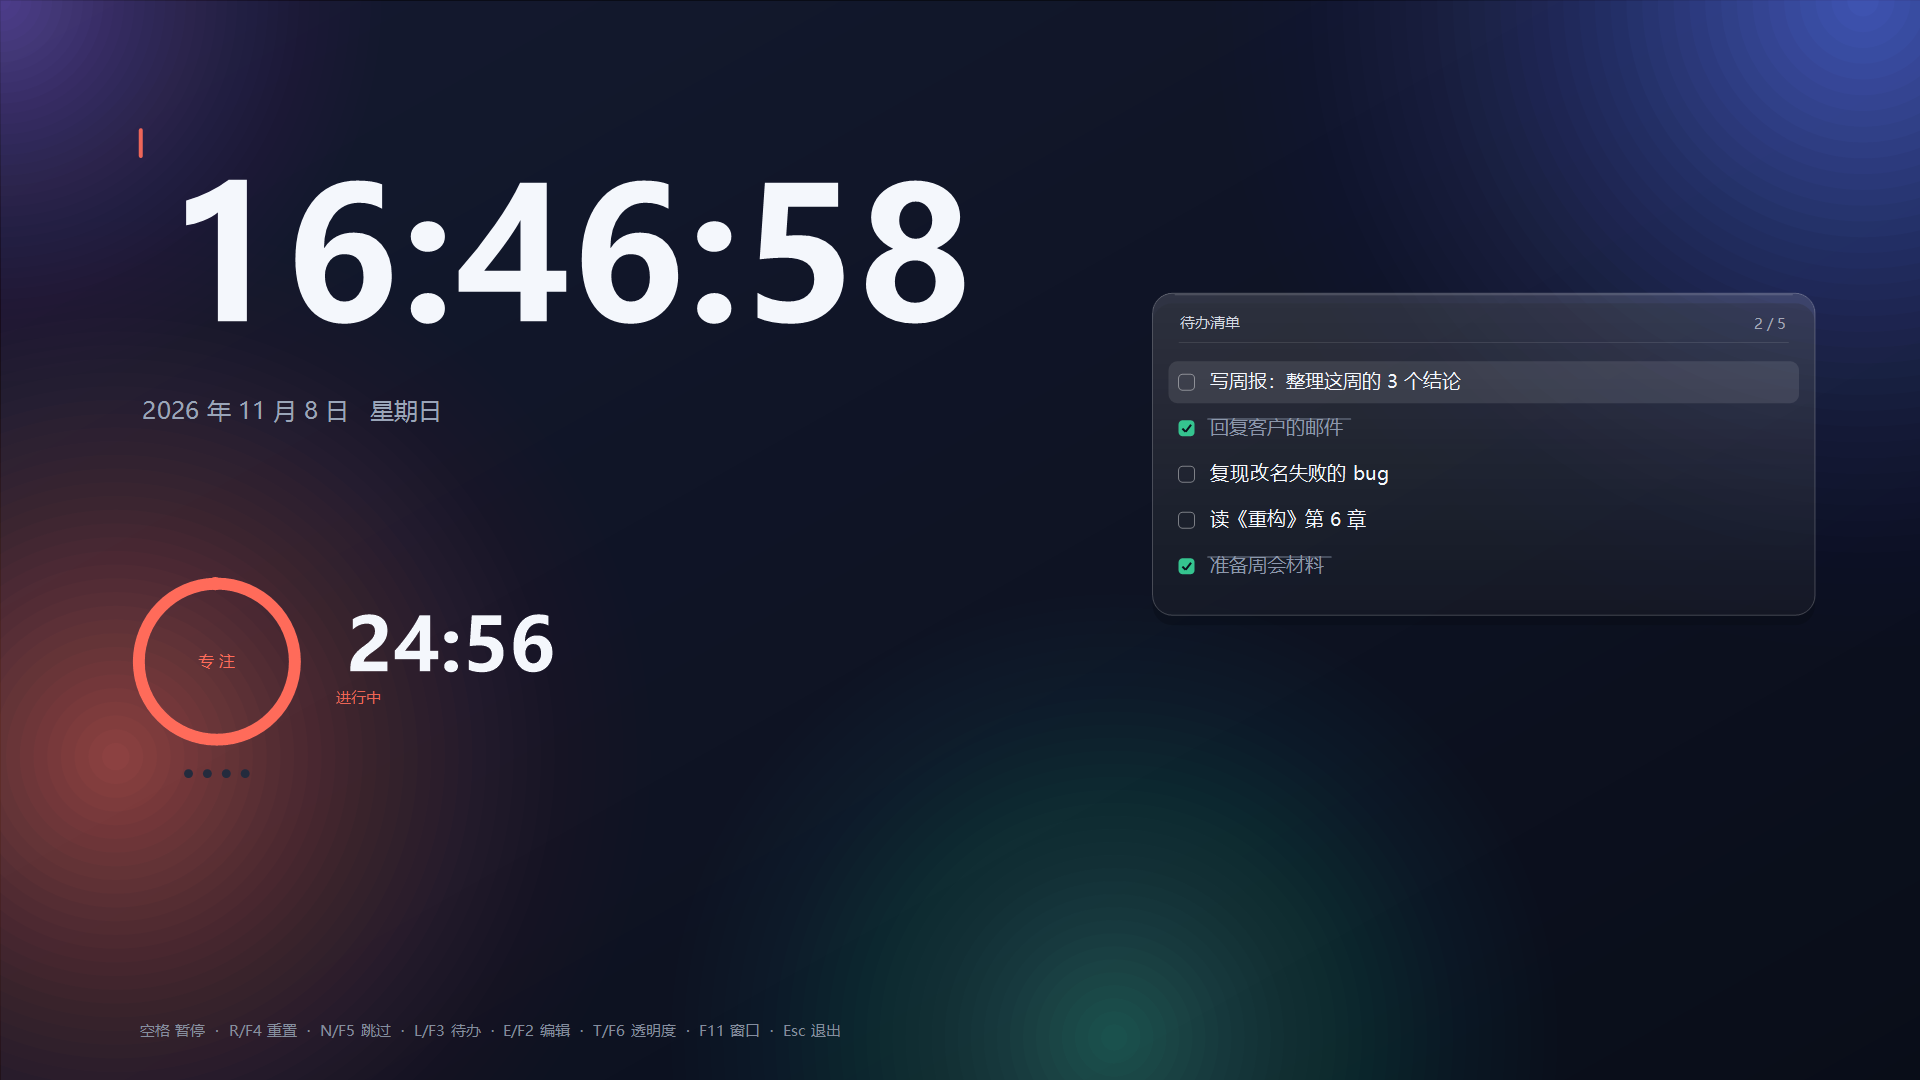
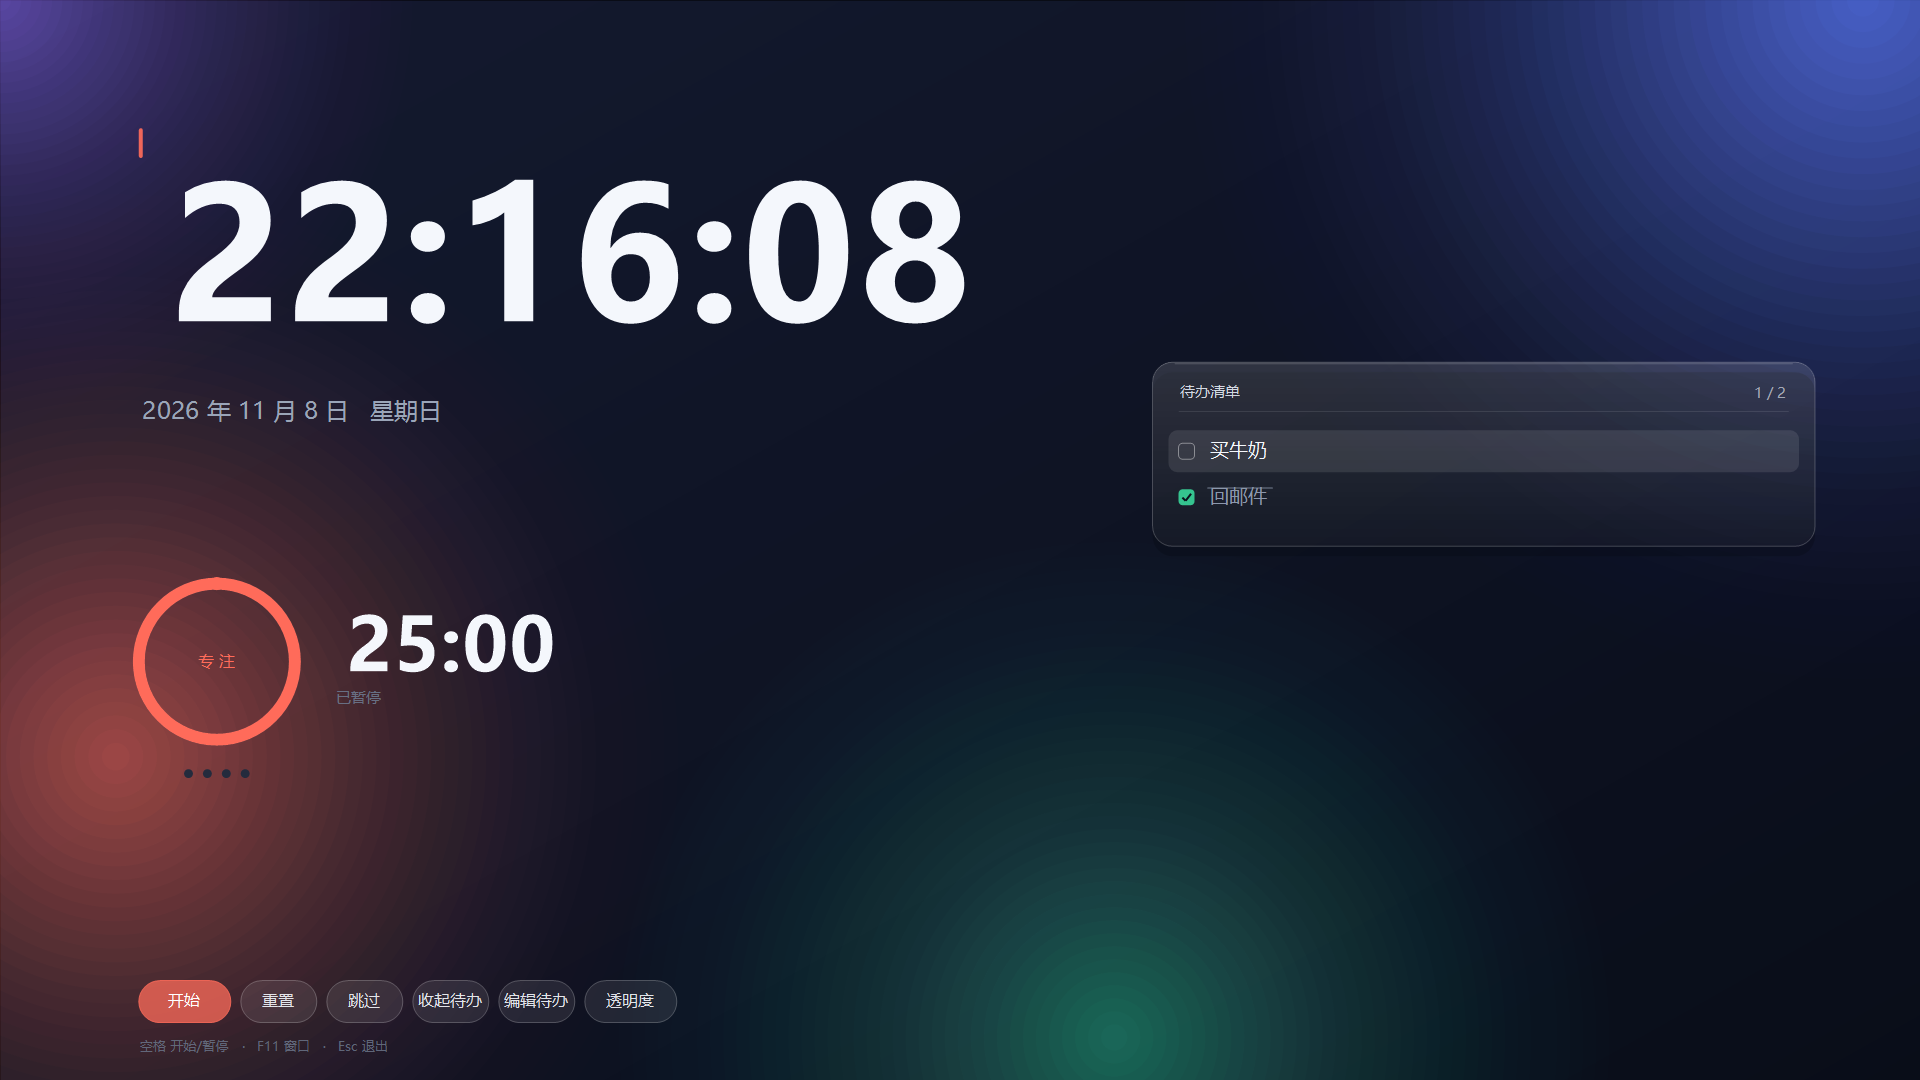
底部快捷键提示改成可点的毛玻璃按钮
左下角一排药丸按钮：开始/暂停、重置、跳过、待办/收起待办、编辑待办、透明度。

视觉上和待办卡片同一套语言：白色低透明度填充（22%~52%）+ 1px 白色描边 +
药丸圆角；开始/暂停用当前阶段色做强调填充。悬停变亮、按下下沉 1px、
鼠标移上去是手型光标。

交互：WM_MOUSEMOVE 命中测试 + TrackMouseEvent 做 hover，WM_LBUTTONDOWN
记录按下的按钮并 SetCapture，WM_LBUTTONUP 时同一按钮才触发，动作复用原有
键盘热键的处理函数。键盘快捷键全部保留。

diff --git a/pomodoro_clock.c b/pomodoro_clock.c
@@ -754,6 +754,60 @@ static int list_visible_rows(int h) {
     return rows < 1 ? 1 : rows;
 }
 
+/* ---------------- 底部可点按钮 ---------------- */
+
+enum { UI_RUN = 0, UI_RESET, UI_SKIP, UI_LIST, UI_EDIT, UI_OPA, UI_COUNT };
+
+typedef struct {
+    int id;
+    wchar_t label[24];
+    float x, y, w, h;
+    int primary;      /* 1 = 强调色实心 */
+} UiButton;
+
+static UiButton g_ui[UI_COUNT];
+static int g_ui_ready = 0;
+static int g_ui_hover = -1;
+static int g_ui_press = -1;
+static int g_ui_tracking = 0;
+
+static void ui_layout(int w, int h) {
+    float k = kk(h);
+    float bh = k * 42.0f;
+    float gap = k * 10.0f;
+    float y = h - k * 100.0f;
+    float x = margin_l(w);
+    static const float widths[UI_COUNT] = { 92, 76, 76, 76, 76, 92 };
+
+    for (int i = 0; i < UI_COUNT; i++) {
+        g_ui[i].id = i;
+        g_ui[i].x = x;
+        g_ui[i].y = y;
+        g_ui[i].w = k * widths[i];
+        g_ui[i].h = bh;
+        g_ui[i].primary = (i == UI_RUN);
+        x += g_ui[i].w + gap;
+    }
+    wcscpy(g_ui[UI_RUN].label, g_pomo.running ? L"暂停" : L"开始");
+    wcscpy(g_ui[UI_RESET].label, L"重置");
+    wcscpy(g_ui[UI_SKIP].label, L"跳过");
+    wcscpy(g_ui[UI_LIST].label, g_list_pinned ? L"收起待办" : L"待办");
+    wcscpy(g_ui[UI_EDIT].label, L"编辑待办");
+    wcscpy(g_ui[UI_OPA].label, L"透明度");
+    (void)w;
+    g_ui_ready = 1;
+}
+
+static int ui_hit(int mx, int my) {
+    if (!g_ui_ready) return -1;
+    for (int i = 0; i < UI_COUNT; i++) {
+        if (mx >= g_ui[i].x && mx <= g_ui[i].x + g_ui[i].w &&
+            my >= g_ui[i].y && my <= g_ui[i].y + g_ui[i].h)
+            return i;
+    }
+    return -1;
+}
+
 /* 左：时钟 + 番茄钟，全部贴左边距 */
 static void paint_clock_block(GpGraphics *g, int w, int h) {
     float k = kk(h);
@@ -1044,13 +1098,37 @@ static void paint(HDC target, int w, int h) {
     paint_clock_block(g, w, h);
     paint_todo_card(g, w, h, a);
 
-    /* 底部提示：贴左下，和时钟对齐 */
-    GpFont *f_hint = font_get((int)(k * 15), FONT_UI);
-    const wchar_t *hint = g_pomo.running
-        ? L"空格 暂停  ·  R/F4 重置  ·  N/F5 跳过  ·  L/F3 待办  ·  E/F2 编辑  ·  T/F6 透明度  ·  F11 窗口  ·  Esc 退出"
-        : L"空格 开始  ·  R/F4 重置  ·  N/F5 跳过  ·  L/F3 待办  ·  E/F2 编辑  ·  T/F6 透明度  ·  F11 窗口  ·  Esc 退出";
-    text_draw_a(g, hint, f_hint, C_MUTED, 200, margin_l(w), (float)(h - k * 62),
-                (float)(w - margin_l(w) * 2), (float)(k * 26), 0);
+    /* 底部：一排可点的毛玻璃按钮 */
+    ui_layout(w, h);
+    {
+        unsigned accent = phase_color(g_pomo.phase);
+        GpFont *f_btn = font_get((int)(k * 16), FONT_UI);
+        for (int i = 0; i < UI_COUNT; i++) {
+            UiButton *b = &g_ui[i];
+            int hover = (g_ui_hover == i);
+            int press = (g_ui_press == i);
+            float bx = b->x, by = b->y + (press ? k * 1.0f : 0.0f);
+            float bw = b->w, bh = b->h;
+            float rad = bh * 0.5f;                     /* 药丸形 */
+
+            if (b->primary) {
+                fill_round(g, argb(accent, press ? 235 : hover ? 215 : 190), bx, by, bw, bh, rad);
+                stroke_round(g, argb(accent, 210), bx, by, bw, bh, rad, 1.0f);
+                text_draw_a(g, b->label, f_btn, 0xFFFFFF, 255, bx, by, bw, bh, 1);
+            } else {
+                /* 毛玻璃：白色低透明度叠在背景上，带 1px 描边 */
+                fill_round(g, argb(0xFFFFFF, press ? 52 : hover ? 38 : 22), bx, by, bw, bh, rad);
+                stroke_round(g, argb(0xFFFFFF, hover ? 90 : 60), bx, by, bw, bh, rad, 1.0f);
+                text_draw_a(g, b->label, f_btn, 0xF4F7FC, hover ? 255 : 225, bx, by, bw, bh, 1);
+            }
+        }
+
+        /* 按钮下方一行极简提示 */
+        GpFont *f_hint = font_get((int)(k * 13), FONT_UI);
+        text_draw_a(g, L"空格 开始/暂停   ·   F11 窗口   ·   Esc 退出", f_hint, C_DIM, 200,
+                    margin_l(w), (float)(h - k * 44), (float)(w - margin_l(w) * 2),
+                    (float)(k * 22), 0);
+    }
 
     BitBlt(target, 0, 0, w, h, g_memdc, 0, 0, SRCCOPY);
 }
@@ -1780,12 +1858,84 @@ static LRESULT CALLBACK WndProc(HWND hwnd, UINT msg, WPARAM wp, LPARAM lp) {
         }
         return 0;
 
+    case WM_MOUSEMOVE: {
+        RECT rc;
+        GetClientRect(hwnd, &rc);
+        int hit = ui_hit(GET_X_LPARAM(lp), GET_Y_LPARAM(lp));
+        if (hit != g_ui_hover) {
+            g_ui_hover = hit;
+            InvalidateRect(hwnd, NULL, FALSE);
+        }
+        if (!g_ui_tracking) {
+            TRACKMOUSEEVENT tme = { sizeof tme, TME_LEAVE, hwnd, 0 };
+            TrackMouseEvent(&tme);
+            g_ui_tracking = 1;
+        }
+        return 0;
+    }
+
+    case WM_MOUSELEAVE:
+        g_ui_tracking = 0;
+        if (g_ui_hover != -1) {
+            g_ui_hover = -1;
+            InvalidateRect(hwnd, NULL, FALSE);
+        }
+        return 0;
+
+    case WM_LBUTTONUP: {
+        RECT rc;
+        GetClientRect(hwnd, &rc);
+        int mx = GET_X_LPARAM(lp), my = GET_Y_LPARAM(lp);
+        int hit = ui_hit(mx, my);
+        int was = g_ui_press;
+        g_ui_press = -1;
+        ReleaseCapture();
+        if (was >= 0 && was == hit) {
+            switch (was) {
+            case UI_RUN:
+                g_pomo.running = !g_pomo.running;
+                break;
+            case UI_RESET:
+                pomo_reset(&g_pomo);
+                break;
+            case UI_SKIP:
+                pomo_skip(&g_pomo);
+                break;
+            case UI_LIST:
+                g_list_pinned = !g_list_pinned;
+                if (g_list_pinned) g_list_clock = 0;
+                break;
+            case UI_EDIT:
+                show_editor();
+                break;
+            case UI_OPA:
+                g_opacity_index++;
+                apply_opacity();
+                break;
+            }
+            update_title();
+        }
+        InvalidateRect(hwnd, NULL, FALSE);
+        return 0;
+    }
+
     case WM_LBUTTONDOWN: {
         RECT rc;
         GetClientRect(hwnd, &rc);
         int w = rc.right, h = rc.bottom;
         float k = kk(h);
         int mx = GET_X_LPARAM(lp), my = GET_Y_LPARAM(lp);
+
+        /* 先看有没有点在底部按钮上 */
+        {
+            int hit = ui_hit(mx, my);
+            if (hit >= 0) {
+                g_ui_press = hit;
+                SetCapture(hwnd);
+                InvalidateRect(hwnd, NULL, FALSE);
+                return 0;
+            }
+        }
 
         /* 点进度环：开始/暂停 */
         double radius = k * 78.0;
@@ -1815,9 +1965,16 @@ static LRESULT CALLBACK WndProc(HWND hwnd, UINT msg, WPARAM wp, LPARAM lp) {
         return 0;
     }
 
-    case WM_SETCURSOR:
-        SetCursor(LoadCursorW(NULL, IDC_ARROW));
+    case WM_SETCURSOR: {
+        POINT pt;
+        GetCursorPos(&pt);
+        ScreenToClient(hwnd, &pt);
+        if (ui_hit(pt.x, pt.y) >= 0)
+            SetCursor(LoadCursorW(NULL, IDC_HAND));
+        else
+            SetCursor(LoadCursorW(NULL, IDC_ARROW));
         return TRUE;
+    }
 
     case WM_DESTROY:
         KillTimer(hwnd, 1);

diff --git a/README.md b/README.md
@@ -13,6 +13,8 @@
 - **柔和提示音**：程序内合成的风铃音（E5-G5-C6 琶音），不依赖音频文件
 - **全屏覆盖**：盖住任务栏并置顶；F11 可切成 980×640 小窗口当桌面挂件
 - **动态明暗**：极光强度以 18 秒为周期起伏（暗相↔亮相交叉淡入），静止画面也有了呼吸感
+- **可点的毛玻璃按钮**：底部一排药丸按钮（开始/暂停、重置、跳过、待办、编辑待办、透明度），
+  悬停变亮、按下有位移、手型光标；键盘快捷键同样可用
 - **透明度**：T 键在 100% / 91% / 78% / 66% 之间切换
 
 ## 截图
@@ -29,7 +31,7 @@
 
 | 键 | 作用 | 备用键 |
 |---|---|---|
-| 空格 | 开始 / 暂停（点进度环也行） | |
+| 空格 | 开始 / 暂停（点进度环或底部按钮也行） | |
 | R | 重置回专注 25:00 | F4 |
 | N | 跳过当前阶段 | F5 |
 | L | 待办常驻 / 收起 | F3 |
